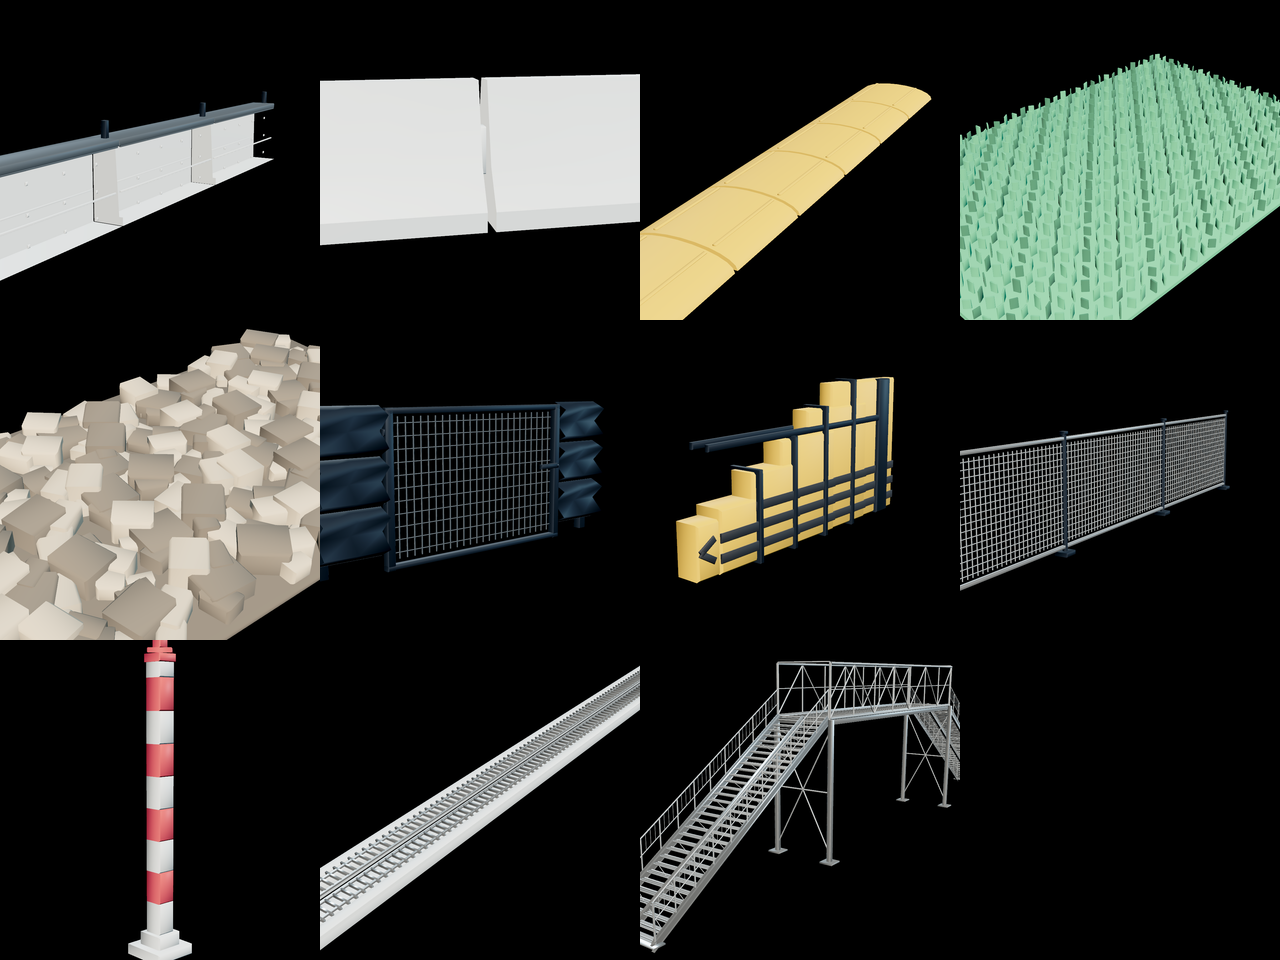
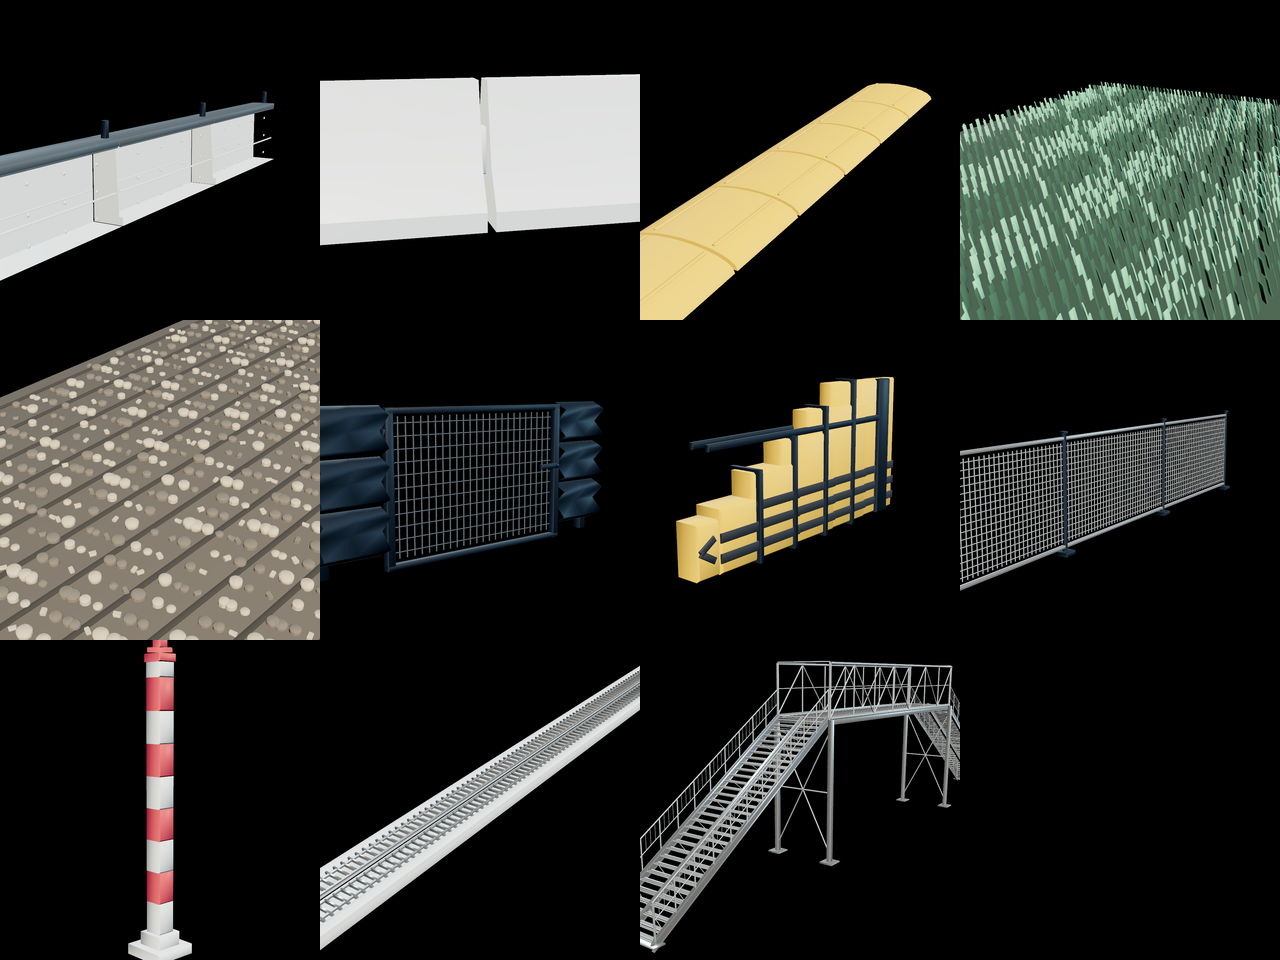
feat(f1-kit): astroturf pile and raked gravel

Changed region(s): [[0.0, 0.3125, 0.25, 0.6875], [0.75, 0.0625, 1.0, 0.3438]]

diff --git a/assets/f1-prototypes/f1-gravel-trap/model.ts b/assets/f1-prototypes/f1-gravel-trap/model.ts
@@ -1,4 +1,5 @@
-// f1-gravel-trap — a placeable raked-gravel TILE, not terrain. Weyl-cycled stones, no PRNG, no canvas map.
+// f1-gravel-trap — a placeable raked-gravel TILE, not terrain. Weyl-cycled
+// pebbles (no PRNG), not sugar-cube pavers. Thin furrows keep the trap readable.
 
 import { BufferGeometry, Group, Mesh, MeshStandardMaterial, type Material } from 'three/webgpu'
 
@@ -6,6 +7,7 @@ import {
   TOKEN,
   acquireF1Materials,
   bevelBox,
+  bevelDisc,
   createF1Preview,
   disposeF1Materials,
   mergeParts,
@@ -37,6 +39,8 @@ const defaults: F1GravelTrapConfig = { modules: 2 }
 const TILE = 2.5
 const THICK = 0.04
 const GOLDEN = 0.6180339887498949
+const FURROWS = 11
+const FURROW_HALF = 0.022
 
 export function createModel(options: F1GravelTrapOptions = {}): F1GravelTrapInstance {
   const config: F1GravelTrapConfig = {
@@ -49,8 +53,8 @@ export function createModel(options: F1GravelTrapOptions = {}): F1GravelTrapInst
     bed: options.materials?.bed ?? (() => {
       const mat = new MeshStandardMaterial({
         name: 'f1-kit / gravel bed',
-        color: shade(TOKEN.DUST_300, -0.48),
-        roughness: 0.97,
+        color: shade(TOKEN.DUST_300, -0.6),
+        roughness: 0.98,
         metalness: 0,
       })
       extras.push(mat)
@@ -59,7 +63,7 @@ export function createModel(options: F1GravelTrapOptions = {}): F1GravelTrapInst
     stone: options.materials?.stone ?? (() => {
       const mat = new MeshStandardMaterial({
         name: 'f1-kit / gravel stone',
-        color: shade(TOKEN.DUST_300, 0.04),
+        color: shade(TOKEN.DUST_300, -0.1),
         roughness: 0.86,
         metalness: 0,
       })
@@ -69,11 +73,17 @@ export function createModel(options: F1GravelTrapOptions = {}): F1GravelTrapInst
   }
   const stoneDark = new MeshStandardMaterial({
     name: 'f1-kit / gravel stone dark',
-    color: shade(TOKEN.DUST_300, -0.4),
-    roughness: 0.9,
+    color: shade(TOKEN.DUST_300, -0.46),
+    roughness: 0.92,
     metalness: 0,
   })
-  extras.push(stoneDark)
+  const rakeMat = new MeshStandardMaterial({
+    name: 'f1-kit / gravel rake',
+    color: shade(TOKEN.DUST_300, -0.78),
+    roughness: 0.99,
+    metalness: 0,
+  })
+  extras.push(stoneDark, rakeMat)
 
   const root = new Group()
   root.name = 'f1-gravel-trap'
@@ -108,21 +118,45 @@ export function createModel(options: F1GravelTrapOptions = {}): F1GravelTrapInst
     slab.translate(0, THICK / 2, 0)
     emit('bed', slab, materialSlots.bed, bed, 'bed')
 
+    const rake: BufferGeometry[] = []
+    const furrowZ: number[] = []
+    for (let f = 0; f < FURROWS; f++) {
+      const z = -TILE / 2 + (f + 0.5) * (TILE / FURROWS)
+      furrowZ.push(z)
+      const groove = bevelBox(length - 0.1, 0.006, 0.028, 0.002)
+      groove.translate(0, THICK + 0.003, z)
+      rake.push(groove)
+    }
+    emit('bed', mergeParts(rake, 'rake'), rakeMat, bed, 'rake')
+
     const light: BufferGeometry[] = []
     const dark: BufferGeometry[] = []
-    const count = config.modules * 140
+    const count = config.modules * 780
     for (let i = 0; i < count; i++) {
       const u = (i * GOLDEN) % 1
       const v = (i * 0.41421356237) % 1
-      const x = (u - 0.5) * (length - 0.2)
-      const z = (v - 0.5) * (TILE - 0.2)
+      const x = (u - 0.5) * (length - 0.16)
+      const z = (v - 0.5) * (TILE - 0.16)
+      let onFurrow = false
+      for (const fz of furrowZ) {
+        if (Math.abs(z - fz) < FURROW_HALF) {
+          onFurrow = true
+          break
+        }
+      }
+      if (onFurrow) continue
       const cls = i % 11
-      const sx = 0.16 + (cls % 4) * 0.05
-      const sy = sx * (0.45 + (cls % 3) * 0.14)
-      const sz = sx * (0.7 + (cls % 5) * 0.1)
-      const pebble = bevelBox(sx, sy, sz, Math.min(0.018, sx * 0.14))
+      const span = 0.032 + (cls % 5) * 0.008
+      const sy = span * (0.38 + (cls % 3) * 0.1)
+      const pebble = cls % 5 === 0
+        ? bevelBox(span, sy, span * (0.7 + (cls % 4) * 0.08), Math.min(0.008, span * 0.24))
+        : (() => {
+          const disc = bevelDisc(span * 0.5, sy, Math.min(0.005, sy * 0.26), 14)
+          disc.rotateX(Math.PI / 2)
+          return disc
+        })()
       pebble.rotateY(((i * 13) % 20) * 0.31)
-      pebble.translate(x, THICK + sy * 0.4, z)
+      pebble.translate(x, THICK + sy * 0.45, z)
       ;(cls % 2 === 0 ? light : dark).push(pebble)
     }
     emit('stone', mergeParts(light, 'stones'), materialSlots.stone, stone, 'stones')
@@ -143,6 +177,7 @@ export function createModel(options: F1GravelTrapOptions = {}): F1GravelTrapInst
       materialSlots[slot] = material
       for (const mesh of meshesBySlot[slot]) {
         if (slot === 'stone' && mesh.name === 'stones-dark') continue
+        if (slot === 'bed' && mesh.name === 'rake') continue
         mesh.material = material
       }
     },
@@ -159,10 +194,10 @@ export function createModel(options: F1GravelTrapOptions = {}): F1GravelTrapInst
 export function createPreview({ aspect }: { aspect: number; time?: number }) {
   return createF1Preview(createModel({ modules: 2 }), {
     aspect,
-    target: [0, 0.1, 0],
-    distance: 4.4,
+    target: [0, 0.04, 0],
+    distance: 3.2,
     fov: 28,
-    yaw: -0.65,
-    pitch: 0.64,
+    yaw: -0.78,
+    pitch: 0.66,
   })
 }

diff --git a/assets/f1-prototypes/f1-astroturf-strip/model.ts b/assets/f1-prototypes/f1-astroturf-strip/model.ts
@@ -1,4 +1,5 @@
-// f1-astroturf-strip — 2.0 m Grade 1 artificial-grass verge. Green pile, not a flat green card.
+// f1-astroturf-strip — 2.0 m Grade 1 artificial-grass verge. Dark soil bed,
+// dense two-tone pile with a mown nap. Not a mint slab of card blades.
 
 import { BufferGeometry, Group, Mesh, MeshStandardMaterial, type Material } from 'three/webgpu'
 
@@ -38,8 +39,11 @@ const defaults: F1AstroturfStripConfig = { modules: 6 }
 const BAND = ASTROTURF.pitch
 const WIDTH = ASTROTURF.width
 const THICK = ASTROTURF.thick
-const PILE = 0.055
-const STEP = 0.08
+const PILE = 0.046
+const STEP = 0.05
+const STRIPE = 0.25
+const NAP = -0.28
+const RIM = 0.04
 
 export function createModel(options: F1AstroturfStripOptions = {}): F1AstroturfStripInstance {
   const config: F1AstroturfStripConfig = {
@@ -52,21 +56,27 @@ export function createModel(options: F1AstroturfStripOptions = {}): F1AstroturfS
     mat: options.materials?.mat ?? (() => {
       const mat = new MeshStandardMaterial({
         name: 'f1-kit / astroturf',
-        color: TOKEN.FIELD_500,
-        roughness: 0.94,
+        color: shade(TOKEN.FIELD_500, 0.16),
+        roughness: 0.9,
         metalness: 0,
       })
       extras.push(mat)
       return mat
     })(),
   }
+  const bedMat = new MeshStandardMaterial({
+    name: 'f1-kit / astroturf bed',
+    color: shade(TOKEN.FIELD_500, -0.72),
+    roughness: 1,
+    metalness: 0,
+  })
   const pileDark = new MeshStandardMaterial({
     name: 'f1-kit / astroturf pile',
-    color: shade(TOKEN.FIELD_500, -0.32),
+    color: shade(TOKEN.FIELD_500, -0.55),
     roughness: 0.96,
     metalness: 0,
   })
-  extras.push(pileDark)
+  extras.push(bedMat, pileDark)
 
   const root = new Group()
   root.name = 'f1-astroturf-strip'
@@ -98,26 +108,30 @@ export function createModel(options: F1AstroturfStripOptions = {}): F1AstroturfS
     const length = config.modules * BAND
     const bed = bevelBox(length, THICK, WIDTH, 0.004)
     bed.translate(0, THICK / 2, 0)
-    const light: BufferGeometry[] = [bed]
+    emit(bed, bedMat, 'bed')
+
+    const light: BufferGeometry[] = []
     const dark: BufferGeometry[] = []
-    const nx = Math.max(6, Math.round(length / STEP))
-    const nz = Math.max(5, Math.round(WIDTH / STEP))
+    const innerL = length - RIM * 2
+    const innerW = WIDTH - RIM * 2
+    const nx = Math.max(8, Math.round(innerL / STEP))
+    const nz = Math.max(8, Math.round(innerW / STEP))
     for (let i = 0; i < nx; i++) {
       for (let j = 0; j < nz; j++) {
-        const x = -length / 2 + (i + 0.5) * (length / nx)
-        const z = -WIDTH / 2 + (j + 0.5) * (WIDTH / nz)
-        const h = PILE + ((i * 3 + j * 5) % 5) * 0.006
-        const alongX = ((i + j) % 2) === 0
-        const blade = alongX
-          ? bevelBox(0.042, h, 0.008, 0.0015)
-          : bevelBox(0.008, h, 0.042, 0.0015)
-        blade.rotateY(((i * 7 + j * 3) % 9) * 0.14)
+        const x = -innerL / 2 + (i + 0.5) * (innerL / nx)
+        const z = -innerW / 2 + (j + 0.5) * (innerW / nz)
+        const h = PILE + ((i * 3 + j * 5) % 5) * 0.005
+        const blade = bevelBox(0.026, h, 0.0042, 0.0008)
+        blade.rotateX(NAP)
+        blade.rotateY(((i * 7 + j * 3) % 9) * 0.1)
         blade.translate(x, THICK + h / 2, z)
-        ;((i + j) % 3 === 0 ? dark : light).push(blade)
+        const mown = Math.floor((z + innerW / 2) / STRIPE) % 2 === 0
+        const swap = (i + j) % 9 === 0
+        ;((mown !== swap) ? light : dark).push(blade)
       }
     }
-    emit(mergeParts(light, 'mat'), materialSlots.mat, 'mat')
-    emit(mergeParts(dark, 'pile'), pileDark, 'pile')
+    emit(mergeParts(light, 'pile'), materialSlots.mat, 'pile')
+    emit(mergeParts(dark, 'pile-dark'), pileDark, 'pile-dark')
   }
   rebuild()
 
@@ -133,7 +147,7 @@ export function createModel(options: F1AstroturfStripOptions = {}): F1AstroturfS
     setMaterial(slot, material) {
       materialSlots[slot] = material
       for (const mesh of meshesBySlot[slot]) {
-        if (mesh.name === 'mat') mesh.material = material
+        if (mesh.name === 'pile') mesh.material = material
       }
     },
     update: () => {},
@@ -149,10 +163,10 @@ export function createModel(options: F1AstroturfStripOptions = {}): F1AstroturfS
 export function createPreview({ aspect }: { aspect: number; time?: number }) {
   return createF1Preview(createModel({ modules: 3 }), {
     aspect,
-    target: [0, 0.05, 0],
-    distance: 4.2,
+    target: [0, 0.04, 0],
+    distance: 2.85,
     fov: 28,
-    yaw: -0.8,
-    pitch: 0.55,
+    yaw: -1.05,
+    pitch: 0.3,
   })
 }

diff --git a/assets/f1-prototypes/f1-kit.test.ts b/assets/f1-prototypes/f1-kit.test.ts
@@ -153,11 +153,11 @@ const factories = {
   'f1-oranje-can': () => createOranjeCan({ lit: true }),
   'f1-concrete-wall': () => createConcreteWall(),
   'f1-sausage-kerb': () => createSausageKerb(),
-  'f1-astroturf-strip': () => createAstroturf(),
+  'f1-astroturf-strip': () => createAstroturf({ modules: 2 }),
   'f1-jersey-barrier': () => createJersey(),
   'f1-access-gate': () => createAccessGate(),
   'f1-crash-cushion': () => createCrashCushion(),
-  'f1-gravel-trap': () => createGravelTrap(),
+  'f1-gravel-trap': () => createGravelTrap({ modules: 1 }),
   'f1-crowd-fence': () => createCrowdFence(),
   'f1-marker-post': () => createMarkerPost(),
   'f1-slot-drain': () => createSlotDrain(),
@@ -787,6 +787,29 @@ describe('FIA 1:1 datums', () => {
     model.root.updateMatrixWorld(true)
     const { size } = sizeOf(model.root)
     expect(size.z).toBeCloseTo(2.0, 1)
+    model.dispose()
+  })
+
+  test('astroturf strip is a two-tone pile on a dark bed', () => {
+    const model = createAstroturf({ modules: 3 })
+    expect(model.root.getObjectByName('bed')).toBeDefined()
+    expect(model.root.getObjectByName('pile')).toBeDefined()
+    expect(model.root.getObjectByName('pile-dark')).toBeDefined()
+    const bed = model.root.getObjectByName('bed') as Mesh
+    expect((bed.material as MeshStandardMaterial).color.getHex()).not.toBe(TOKEN.FIELD_500)
+    model.dispose()
+  })
+
+  test('gravel trap is pebble-scale raked stones', () => {
+    const model = createGravelTrap({ modules: 1 })
+    expect(model.root.getObjectByName('bed')).toBeDefined()
+    expect(model.root.getObjectByName('stones')).toBeDefined()
+    expect(model.root.getObjectByName('stones-dark')).toBeDefined()
+    expect(model.root.getObjectByName('rake')).toBeDefined()
+    model.root.updateMatrixWorld(true)
+    const stones = model.root.getObjectByName('stones') as Mesh
+    const size = new Box3().setFromObject(stones).getSize(new Vector3())
+    expect(size.y).toBeLessThan(0.12)
     model.dispose()
   })
 

diff --git a/registries/f1-kit/CHANGELOG.md b/registries/f1-kit/CHANGELOG.md
@@ -1,5 +1,11 @@
 # @f1-kit/registry
 
+## 0.0.18
+
+Astroturf and gravel strips. The verge is a dark soil bed under a two-tone
+mown pile, not a mint slab of card blades. The trap is pebble-scale Weyl-cycled
+stones with rake furrows, not sugar-cube pavers. No new ids; kit stays 70.
+
 ## 0.0.17
 
 Race control, sector gantry, spectator bridge, cone, and grid box. Race
